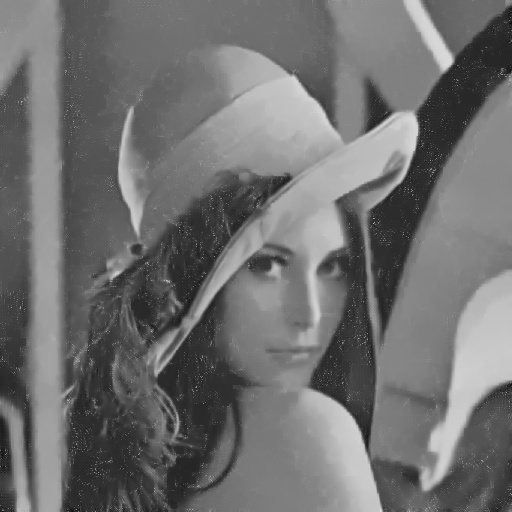
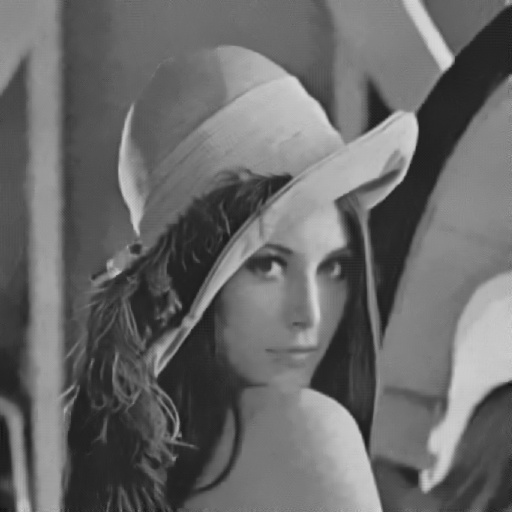
update

diff --git a/BM3D_main.py b/BM3D_main.py
@@ -11,10 +11,10 @@ import skimage
 def main():
 
 	filename = 'lena.jpg'
-	noise_mode = 'salt'
+	noise_mode = 'gaussian'
 
 	origin_image = cv2.imread(filename, cv2.IMREAD_GRAYSCALE)
-	noise_image = skimage.util.random_noise(origin_image/256.0, mode=noise_mode, seed=42)
+	noise_image = skimage.util.random_noise(origin_image/256.0, mode=noise_mode)
 
 	if os.path.exists(noise_mode+'.jpg'):
 		noise_image = cv2.imread(noise_mode+'.jpg', cv2.IMREAD_GRAYSCALE)

diff --git a/BM3D_step1_demo.py b/BM3D_step1_demo.py
@@ -1,5 +1,4 @@
 import cv2
-import PSNR
 import numpy
 
 

diff --git a/BM3D_step2_demo.py b/BM3D_step2_demo.py
@@ -1,5 +1,4 @@
 import cv2
-import PSNR
 import numpy
 
 
